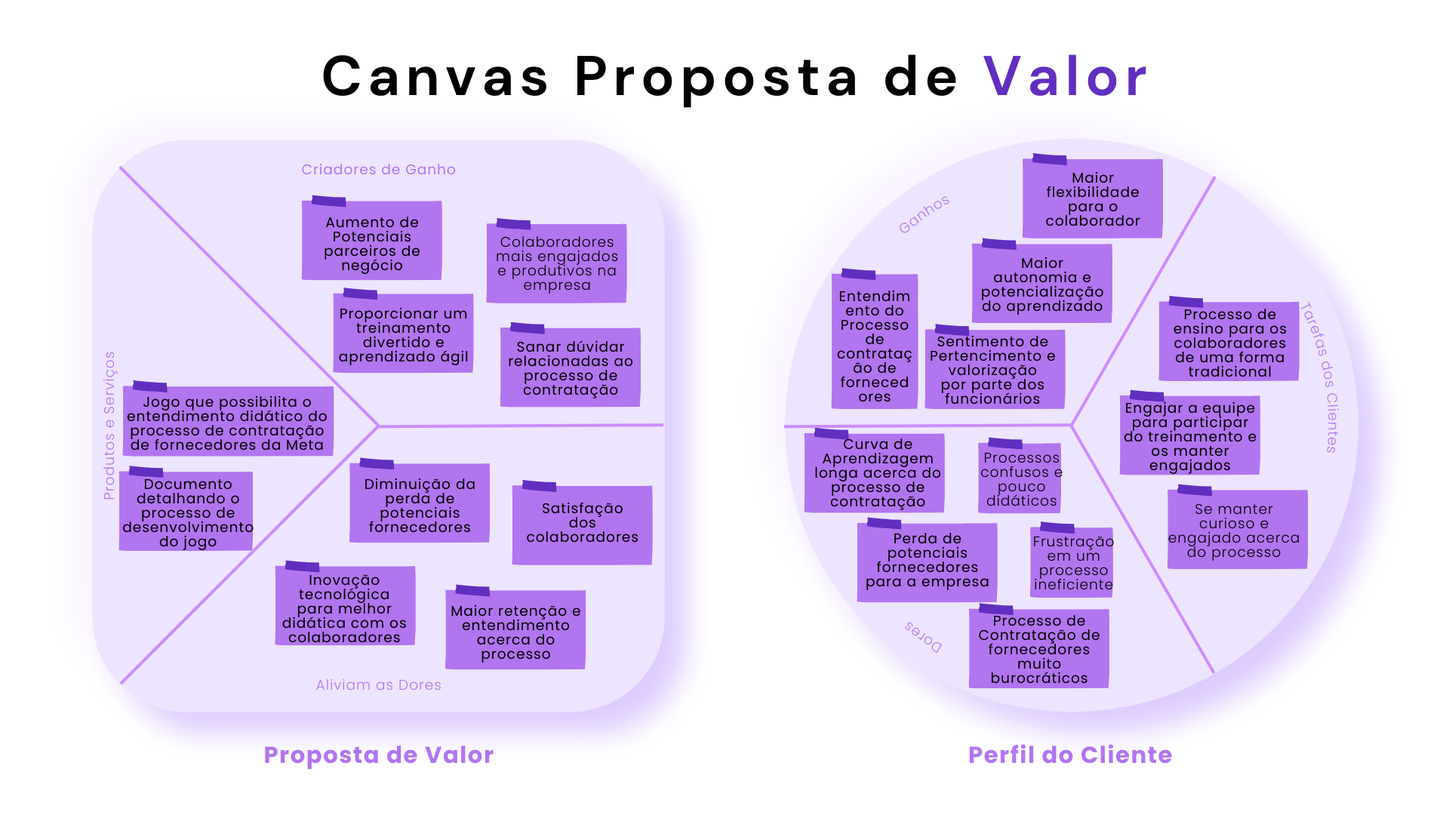
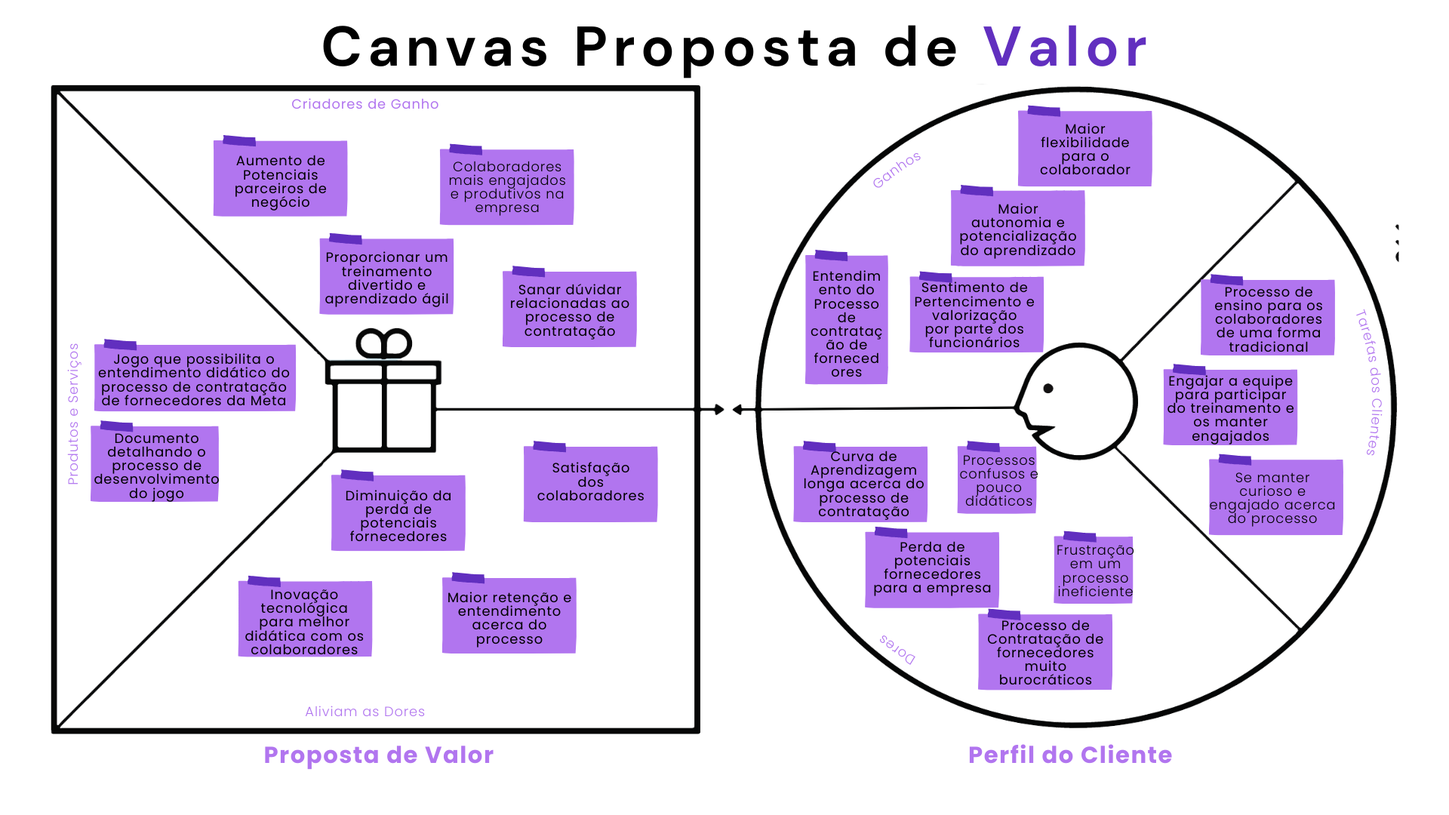
Alterações no GDD

diff --git a/document/gdd.md b/document/gdd.md
@@ -56,34 +56,52 @@ Entretanto, apesar da vasta quantidade de concorrentes, em fevereiro de 2024 as 
 
 ### 1.1.2. Análise SWOT 
 
-A análise SWOT da Meta oferece uma visão abrangente das forças, fraquezas, oportunidades e ameaças enfrentadas pela empresa. A Meta, anteriormente conhecida como Facebook, é uma gigante global que moldou a forma como interagimos e nos conectamos digitalmente. Com uma ampla gama de produtos em sua carteira e um marketing marcante, a empresa conquistou uma presença forte e influente em todo o mundo.
+A análise SWOT é uma ferramenta utilizada para identificar as forças, oportunidades, fraquezas e ameaças de uma empresa. Dessa forma, serve como uma forma de identificar oportunidades de melhoria frente à concorrência e à própria equipe, promovendo uma visão de qual o atual cenário da empresa.
+
+No contexto da Análise SWOT, há os fatores internos e externos, quanto aos fatores internos há: as forças são as ações internas que oferecem uma vantagem competitiva para a empresa, são os fatores que indicam o sucesso da empresa. Enquanto as fraquezas são o oposto, são as iniciativas internas que estão abaixo do esperado e indicam o que precisa ser feito para melhorar na empresa.
+
+Quanto aos fatores externos há as oportunidades e ameaças. As oportunidades são as iniciativas externas às empresas mas que promovem uma melhor posição competitiva. Em relação às ameaças são os fatores externos que estão foram do controle da empresa e podem impactar negativamente o cenário competitivo.
+
+Desse modo, considerando as concepções da Análise SWOT foi possível identificar as forças, fraquezas, oportunidades e ameaças que a contempla a Meta, conforme consta abaixo.
 
 <img src="../assets/MatrizSwotMeta.png">
 Figura 2: Análise SWOT da empresa Meta. Fonte: Autor Próprio (2024)
 
 **Forças:**
-- Grande variedade de produtos na carteira;</br>
-- Marketing e publicidade marcantes, além dos produtos com identidade visual facilmente reconhecível por grande parte das pessoas;</br>
-- Marcas e produtos fortemente presentes e influentes no mundo todo;</br>
-- Sistema de anúncios altamente desenvolvido, tornando-se a principal fonte de lucro da empresa.</br>
+- **Equipe qualificada e talentosa:** A empresa possui uma equipe altamente qualificada e talentosa, capaz de impulsionar a inovação e a excelência em seus produtos e serviços. </br>
+- **Marketing e publicidade atraentes:** A empresa investe em estratégias de marketing e publicidade eficazes, que capturam a atenção do público-alvo e promovem o reconhecimento e a preferência de suas marcas e produtos. </br>
+- **Marcas e produtos fortemente presentes:** A empresa possui marcas e produtos bem estabelecidos, com uma presença forte e influente no mercado, o que contribui para sua reputação e sucesso comercial. </br>
+- **Presença de tecnologia de ponta nos serviços ofertados pela empresa:** A empresa oferece serviços que incorporam tecnologia de ponta, proporcionando aos clientes experiências inovadoras e de alta qualidade.</br>
 
 **Fraquezas:**
-- Dificuldade dos colaboradores em entender o processo de contratação de fornecedores;</br>
-- Falta de investimento na expansão no mercado publicitário em razão da restrição dos anúncios da meta à produtos da empresa (propaganda exclusivamente interna); </br>
-- Constantes comprometimentos na segurança dos dados, gerando desconfiança e falta de credibilidade com os usuários, levando a perca parcial e diminuindo o ganho de usuários; </br>
-- Apesar da diversidade de produtos na carteira, grande parte da renda da Meta provém do sistema de anúncios. </br>
+- **Falta de otimização nos processos internos:** A empresa enfrenta desafios relacionados à falta de otimização em seus processos internos, o que pode afetar a eficiência operacional e a produtividade.
+
+- **Dificuldade dos colaboradores em entender processos:** Os colaboradores enfrentam dificuldades em entender alguns processos internos da empresa, o que pode impactar negativamente a execução das tarefas e projetos.
+
+- **Constantes comprometimentos na segurança dos dados:** A empresa enfrenta desafios relacionados à segurança dos dados, com ocorrências frequentes de comprometimento, o que pode resultar em perda de confiança dos clientes e danos à reputação da empresa.
+
+- **Renda proveniente do sistema de anúncios:** A empresa depende significativamente da receita gerada pelo sistema de anúncios, o que a torna vulnerável a flutuações no mercado publicitário e mudanças nas políticas de privacidade.
 
 **Oportunidades:**
-- Capacidade de influenciar grandes massas, uma vez que os seus produtos são utilizados por bilhões de pessoas em todo o mundo;</br>
-- Enorme capacidade de criar conexões com as mais diversas empresas e instituições, possibilitando o desenvolvimento de produtos com tecnologia de ponta;</br>
-- Possibilidade de conquistar a fidelidade de uma gama de usuários para os seus produtos através de investimentos em tecnologia, segurança e privacidade;</br>
-- Através do projeto, possibilitar uma carteira de fornecedores mais diversificada e alinhada com os propósitos da Meta.</br>
+- **Capacidade de influenciar grandes massas:** A empresa tem a capacidade de influenciar grandes audiências, dada sua presença significativa e impactante no mercado, o que representa uma oportunidade para expandir sua base de clientes e aumentar sua participação de mercado.
+
+- **Capacidade de criar conexões com as mais diversas empresas e instituições:** A empresa possui recursos e alcance para estabelecer conexões com uma variedade de empresas e instituições, o que pode abrir oportunidades para colaborações estratégicas e desenvolvimento de novos produtos e serviços.
+
+- **Possibilidade de explorar novos avanços tecnológicos:** A empresa está em posição de explorar e adotar novos avanços tecnológicos, o que pode impulsionar a inovação e a diferenciação de seus produtos e serviços no mercado.
+
+- **Expandir o mercado:** A empresa tem a oportunidade de expandir seu alcance e penetração em novos mercados geográficos ou segmentos de mercado, o que pode impulsionar o crescimento e a diversificação de suas operações.
 
 **Ameaças:**
-- Os produtos da Meta estão inseridos em um mercado com forte concorrência; </br>
-- O crescimento de leis de regulamentação, restringindo principalmente a captura de dados do usuário, prejudicando o funcionamento dos algoritmos de recomendação e anúncios; </br>
-- Perda de mercado devido a mudanças na preferência do consumidor e a possível perca de mercado para outros concorrentes; </br>
-- Apesar da grande variedade da carteira de produtos da Meta, a maioria da sua receita vem unicamente dos serviços de anúncios em suas redes sociais, tornando-os dependentes financeiramente desse único produto.</br>
+- **Mercado com forte concorrência:** A empresa enfrenta uma forte concorrência no mercado, o que pode dificultar a manutenção ou aumento de sua participação de mercado e pressionar os preços e margens de lucro.
+
+- **Economia global instável:** A instabilidade econômica global representa uma ameaça à empresa, pois pode afetar o poder de compra dos consumidores, as condições de crédito e investimento, e a demanda por seus produtos e serviços.
+
+- **Perda de mercado devido a mudanças do consumidor:** Mudanças nas preferências e comportamentos dos consumidores podem levar à perda de participação de mercado da empresa, caso ela não consiga acompanhar ou antecipar essas mudanças de forma eficaz.
+
+- **Riscos de segurança de dados:** A empresa enfrenta riscos significativos relacionados à segurança de dados, incluindo violações de dados, ataques cibernéticos e regulamentações cada vez mais rigorosas de proteção de dados, o que pode resultar em danos à reputação e custos significativos de conformidade e remediação.
+
+Sendo assim, é notável que a análise SWOT da Meta oferece uma visão abrangente das forças, fraquezas, oportunidades e ameaças enfrentadas pela empresa. A Meta, anteriormente conhecida como Facebook, é uma gigante global que moldou a forma como interagimos e nos conectamos digitalmente. Com uma ampla gama de produtos em sua carteira e um marketing marcante, a empresa conquistou uma presença forte e influente em todo o mundo.
+
 
 ### 1.1.3. Descrição da Solução Desenvolvida
 
@@ -93,9 +111,12 @@ Dessa forma os colaboradores da Meta terão acesso ao jogo para aprender de form
 
 Sendo assim, é esperado o aumento do engajamento dos usuários devido à abordagem inovadora, promoção de uma assimilação fácil e assertiva do processo, redução dos erros cometidos ao longo do processo e o aumento na eficiência do treinamento, de forma a contribuir para o desenvolvimento dos colaborados e a eficácia do processo de contratação de fornecedores da Meta.
 
-### 1.1.4. Proposta de Valor (sprints 1 e 4)
+### 1.1.4. Proposta de Valor
 
-Com o intuito de agregar valor na nossa solução e identificar quais as necessidades dos clientes desenvolvemos um Canvas Proposta de Valor, confome consta abaixo.
+O Canvas Proposta de Valor é uma ferramenta que tem como fundamento criar e posicionar produtos ou serviços de acordo com o que o cliente valoriza e precisa. Dessa forma, busca pensar no produto de uma forma mais estrutura e aumentar as chances de fazer o encaixe entre produto e mercado.
+
+Para atingir esse objetivo, a Proposta de Valor conta com dois blocos o Perfil do Cliente e a Proposta de Valor. Nesse primeiro, há a tarefa do cliente, as dores dos clientes e os ganhos dos clientes. Enquanto no segundo bloco estão presentes os produtos e serviços, os aliviadores de dores e os criadores de ganhos. 
+Sendo assim, xom o intuito de agregar valor na nossa solução e identificar quais as necessidades dos clientes desenvolvemos um Canvas Proposta de Valor, confome consta na imagem abaixo.
 
 <img src="../assets/CanvasPropostaValor.png">
 Figura 3. Canvas Proposta de Valor. Fonte: Autor Próprio (2024)
@@ -151,16 +172,20 @@ Figura 3. Canvas Proposta de Valor. Fonte: Autor Próprio (2024)
 2. **Jogo que possibilita o entendimento didático do processo de contratação de fornecedores da Meta:** O jogo é o produto final, projetado para oferecer aos colaboradores uma experiência de aprendizado imersiva e eficaz sobre o processo de contratação.
 
 
-### 1.1.5. Matriz de Riscos (sprints 1 e 4)
+### 1.1.5. Matriz de Riscos
 
-Visando avaliar a probabilidade de determinados eventos e consequências ocorrerem a Matriz de Risco foi criada. Além de ajudar a otimizar o trabalho e planejar planos de ações para evitar que determinados riscos ocorressem.
+A Matriz de Risco é outra ferramenta que utilizada para a avaliar a probabilidade de determinados eventos ocorrerem e quais os impactos desse evento. Para isso, é proposto a construção de uma tabela que possui o eixo vertical como probabilidade e o eixo horizontal como impacto. 
+
+Sendo assim, a probabilidade indica o quão previsível é que um risco ocorra e qual a frequência que ele pode acontecer, enquanto o impacto indica as consequências quando o risco de fato acontece. 
+
+Dessa forma, a Matriz de risco serve para avaliar o potencial de risco na produção desse projeto e ajudar no planejamento de ações para evitar que esses ocorram.
 
 <img src="../assets/MatrizRisco.png">
 Figura 4. Matriz de Riscos. Fonte: Autor Próprio (2024)
 
 De acordo com os riscos estabelecidos foi possível determinar quais ações seriam tomadas para evitar que estes ocorressem e o que seria feito caso ocorressem.
 
-\# | Plano de Ação e Resposta 
+# Risco | Plano de Ação e Resposta 
 --- | ---
 **Impasses gerados por ideias divergentes** | Entrar em consenso por meio do diálogo e reuniões
 **Ausência de conhecimento técnico** | Buscar nivelar o mais proximo possivel os assuntos a serem abordados
@@ -174,12 +199,12 @@ De acordo com os riscos estabelecidos foi possível determinar quais ações ser
 **Dificuldade em assimilar o exercício proposto** | Tirar duvidas por meio de perguntas ou de outros exercícios semelhantes com ajuda de professor ou colegas
 
 
-## 1.2. Requisitos do Projeto (sprints 1 e 2)
+## 1.2. Requisitos do Projeto
 
 Durante a reunião com o parceiro do projeto foi possível definir uma série de requisitos que contemplam desde a estética até a mecânica do jogo.
 
 **Tabela de requisitos**
-\# | **Requisito**  
+# | **Requisito**  
 --- | ---
 1 | Garantir que os usuários estejam curiosos e ativos em relação aos processos de forma a reduzir os riscos na contratação.
 2 | Garantir que o colaborador saiba o processo.
@@ -192,6 +217,223 @@ Durante a reunião com o parceiro do projeto foi possível definir uma série de
 9 | Possibilitar o compartilhamento da conclusão de fases do jogo.
 
 
-# <a name="c8"></a>Anexos
+## 1.3. Público-alvo do Projeto (sprint 2)
 
-*Ainda não disponível. Ver em Breve*
+*Posicione aqui uma descrição justificada do público-alvo do jogo, em termos demográficos e de preferências/gostos pessoais.*
+
+# <a name="c2"></a>2. Visão Geral do Jogo (sprint 2)
+
+## 2.1. Objetivos do Jogo (sprint 2)
+
+*Descreva o que o jogador deve cumprir para avançar ou concluir o jogo*
+
+## 2.2. Características do Jogo (sprint 2)
+
+### 2.2.1. Gênero do Jogo (sprint 2)
+
+*simulação, RPG, corrida, estratégia, esportes, ação, aventura etc.*  
+
+### 2.2.2. Plataforma do Jogo (sprint 2)
+
+*quanto ao dispositivo: desktop, smartphones, tablets, TV etc.*
+
+*quanto ao sistema: Web, Windows, MacOS, Android, IOS etc.*
+
+### 2.2.3. Número de jogadores (sprint 2)
+
+*1 jogador, 2 jogadores versus, 2 jogadores cooperação, multiplayer etc.*
+
+### 2.2.4. Títulos semelhantes e inspirações (sprint 2)
+
+*Liste e descreva títulos semelhantes e jogos que inspiram e são usados como referência do projeto*
+
+### 2.2.5. Tempo estimado de jogo (sprint 5)
+
+*Ex. O jogo pode ser concluído em 3 horas passando por todas as fases.*
+
+*Ex. cada partida dura até 15 minutos*
+
+# <a name="c3"></a>3. Game Design (sprints 2 e 3)
+
+## 3.1. Enredo do Jogo (sprints 2 e 3)
+
+*Descreva o enredo/história do jogo, criando contexto para os personagens (seção 3.2) e o mundo do jogo (seção 3.3). Uma boa história costuma ter um arco narrativo de contexto, conflito e resolução. Utilize etapas sequenciais para descrever esta história.* 
+
+*Caso seu jogo não possua enredo/história (ex. jogo Tetris), mencione os motivos de não existir e como o jogador pode se contextualizar com o ambiente do jogo.*
+
+## 3.2. Personagens (sprints 2 e 3)
+
+### 3.2.1. Controláveis
+
+*Descreva os personagens controláveis pelo jogador. Mencione nome, objetivos, características, habilidades, diferenciais etc. Utilize figuras (character art, sprite sheets etc.) para ilustrá-los. Caso utilize material de terceiros em licença Creative Commons, não deixe de citar os autores/fontes.* 
+
+*Caso não existam personagens (ex. jogo Tetris), mencione os motivos de não existirem e como o jogador pode interpretar tal fato.*
+
+### 3.2.2. Non-Playable Characters (NPC)
+
+*\<opcional\> Se existirem coadjuvantes ou vilões, aqui é o local para descrevê-los e ilustrá-los. Utilize listas ou tabelas para organizar esta seção. Caso utilize material de terceiros em licença Creative Commons, não deixe de citar os autores/fontes. Caso não existam NPCs, remova esta seção.*
+
+### 3.2.3. Diversidade e Representatividade dos Personagens
+
+Considerando as personagens do game, analise se estas estão alinhadas ao público-alvo do jogo (seção 1.3), e compare-as dentro da realidade da sociedade brasileira. Por fim, discorra sobre qual é o impacto esperado da escolha dessas personagens.
+
+## 3.3. Mundo do jogo (sprints 2 e 3)
+
+### 3.3.1. Locações Principais e/ou Mapas (sprints 2 e 3)
+
+*Descreva o ambiente do jogo, em que locais ele ocorre. Ilustre com imagens. Se houverem mapas, posicione-os aqui, descrevendo as áreas em acordo com o enredo. Se houverem fases, descreva-as também em acordo com o enredo (pode ser um jogo de uma fase só). Utilize listas ou tabelas para organizar esta seção. Caso utilize material de terceiros em licença Creative Commons, não deixe de citar os autores/fontes.*
+
+### 3.3.2. Navegação pelo mundo (sprints 2 e 3)
+
+*Descreva como os personagens se movem no mundo criado e as relações entre as locações – como as áreas/fases são acessadas ou desbloqueadas, o que é necessário para serem acessadas etc. Utilize listas ou tabelas para organizar esta seção.*
+
+### 3.3.3. Condições climáticas e temporais (sprints 2 e 3)
+
+*\<opcional\> Descreva diferentes condições de clima que podem afetar o mundo e as fases, se aplicável*
+
+*Caso seja relevante, descreva como o tempo passa, se ele é um fator limitante ao jogo (ex. contagem de tempo para terminar uma fase)*
+
+### 3.3.4. Concept Art (sprint 2)
+
+*Inclua imagens de Concept Art do jogo que ainda não foram demonstradas em outras seções deste documento. Para cada imagem, coloque legendas, como no exemplo abaixo.*
+
+<img src="../assets/concept1.jpg">
+
+Figura 1: detalhe da cena da partida do herói para a missão, usando sua nave
+
+### 3.3.5. Trilha sonora (sprint 3)
+
+*Descreva a trilha sonora do jogo, indicando quais músicas serão utilizadas no mundo e nas fases. Utilize listas ou tabelas para organizar esta seção. Caso utilize material de terceiros em licença Creative Commons, não deixe de citar os autores/fontes.*
+
+*Exemplo de tabela*
+\# | titulo | ocorrência | autoria
+--- | --- | --- | ---
+1 | tema de abertura | tela de início | própria
+2 | tema de combate | cena de combate com inimigos comuns | Hans Zimmer
+3 | ... 
+
+## 3.4. Inventário e Bestiário (sprint 3)
+
+### 3.4.1. Inventário
+
+*\<opcional\> Caso seu jogo utilize itens ou poderes para os personagens obterem, descreva-os aqui, indicando títulos, imagens, meios de obtenção e funções no jogo. Utilize listas ou tabelas para organizar esta seção. Caso utilize material de terceiros em licença Creative Commons, não deixe de citar os autores/fontes.* 
+
+*Exemplo de tabela*
+\# | item |  | como obter | função | efeito sonoro
+--- | --- | --- | --- | --- | ---
+1 | moeda | <img src="../assets/coin.png"> | há muitas espalhadas em todas as fases | acumula dinheiro para comprar outros itens | som de moeda
+2 | madeira | <img src="../assets/wood.png"> | há muitas espalhadas em todas as fases | acumula madeira para construir casas | som de madeiras
+3 | ... 
+
+### 3.4.2. Bestiário
+
+*\<opcional\> Caso seu jogo tenha inimigos, descreva-os aqui, indicando nomes, imagens, momentos de aparição, funções e impactos no jogo. Utilize listas ou tabelas para organizar esta seção. Caso utilize material de terceiros em licença Creative Commons, não deixe de citar os autores/fontes.* 
+
+*Exemplo de tabela*
+\# | inimigo |  | ocorrências | função | impacto | efeito sonoro
+--- | --- | --- | --- | --- | --- | ---
+1 | robô terrestre | <img src="../assets/inimigo2.PNG"> |  a partir da fase 1 | ataca o personagem vindo pelo chão em sua direção, com velocidade constante, atirando parafusos | se encostar no inimigo ou no parafuso arremessado, o personagem perde 1 ponto de vida | sons de tiros e engrenagens girando
+2 | robô voador | <img src="../assets/inimigo1.PNG"> | a partir da fase 2 | ataca o personagem vindo pelo ar, fazendo movimento em 'V' quando se aproxima | se encostar, o personagem perde 3 pontos de vida | som de hélice
+3 | ... 
+
+## 3.5. Gameflow (Diagrama de cenas) (sprint 2)
+
+*Posicione aqui seu "storyboard de programação" - o diagrama de cenas do jogo. Indique, por exemplo, como o jogo começa, quais opções o jogador tem, como ele avança nas fases, quais as condições de 'game over', como o jogo reinicia. Seu diagrama deve representar as classes, atributos e métodos usados no jogo.*
+
+## 3.6. Regras do jogo (sprint 3)
+
+*Descreva aqui as regras do seu jogo: objetivos/desafios, meios para se conseguir alcançar*
+
+*Ex. O jogador deve pilotar o carro e conseguir terminar a corrida dentro de um minuto sem bater em nenhum obstáculo.*
+
+*Ex. O jogador deve concluir a fase dentro do tempo, para obter uma estrela. Se além disso ele coletar todas as moedas, ganha mais uma estrela. E se além disso ele coletar os três medalhões espalhados, ganha mais uma estrela, totalizando três. Ao final do jogo, obtendo três estrelas em todas as fases, desbloqueia o mundo secreto.*  
+
+## 3.7. Mecânicas do jogo (sprint 3)
+
+*Descreva aqui as formas de controle e interação que o jogador tem sobre o jogo: quais os comandos disponíveis, quais combinações de comandos, e quais as ações consequentes desses comandos. Utilize listas ou tabelas para organizar esta seção.*
+
+*Ex. Em um jogo de plataforma 2D para desktop, o jogador pode usar as teclas WASD para mecânicas de andar, mirar para cima, agachar, e as teclas JKL para atacar, correr, arremesar etc.*
+
+*Ex. Em um jogo de puzzle para celular, o jogador pode tocar e arrastar sobre uma peça para movê-la sobre o tabuleiro, ou fazer um toque simples para rotacioná-la*
+
+# <a name="c4"></a>4. Desenvolvimento do Jogo
+
+## 4.1. Desenvolvimento preliminar do jogo (sprint 1)
+
+Para o desenvolvimento preliminar no jogo foram realizados testes de cenários, escolhas de design e algumas diretrizes para o jogo. Nesses testes de cenário foram produzidos dois andares de um possível prédio da Meta, na primeira imagem(figura 5) consta uma sala da recepção para visitantes e na segunda (figura 6) consta o ambiente de trabalho dos colaboradores da empresa.
+
+<img src="../assets/recepcao.png">
+Figura 5. Ambiente de Recepção. Fonte: Autor Próprio(2024).
+
+<img src="../assets/escritorio.png">
+Figura 6. Escritório dos Colaboradores da Meta. Fonte: Autor Próprio(2024).
+
+Quanto ao jogo preliminar foi utilizado um cenário mais limpo, que contém apenas o piso e as paredes do escritório, conforme consta na imagem abaixo.
+<img src="../assets/modeloArt2.png">
+Figura 7. Cenário Preliminar do Game. Fonte: Autor Próprio(2024).
+
+## 4.2. Desenvolvimento básico do jogo (sprint 2)
+
+*Descreva e ilustre aqui o desenvolvimento da versão básica do jogo, explicando brevemente o que foi entregue em termos de código e jogo. Utilize prints de tela para ilustrar. Indique as eventuais dificuldades e próximos passos.*
+
+## 4.3. Desenvolvimento intermediário do jogo (sprint 3)
+
+*Descreva e ilustre aqui o desenvolvimento da versão intermediária do jogo, explicando brevemente o que foi entregue em termos de código e jogo. Utilize prints de tela para ilustrar. Indique as eventuais dificuldades e próximos passos.*
+
+## 4.4. Desenvolvimento final do MVP (sprint 4)
+
+*Descreva e ilustre aqui o desenvolvimento da versão final do jogo, explicando brevemente o que foi entregue em termos de MVP. Utilize prints de tela para ilustrar. Indique as eventuais dificuldades e planos futuros.*
+
+## 4.5. Revisão do MVP (sprint 5)
+
+*Descreva e ilustre aqui o desenvolvimento dos refinamentos e revisões da versão final do jogo, explicando brevemente o que foi entregue em termos de MVP. Utilize prints de tela para ilustrar.*
+
+# <a name="c5"></a>5. Testes (sprint 4)
+
+## 5.1. Casos de Teste
+
+*Descreva nesta seção os casos de teste comuns que podem ser executados a qualquer momento para testar o funcionamento e integração das partes do jogo. Utilize tabelas para facilitar a organização.*
+
+*Exemplo de tabela*
+\# | pré-condição | descrição do teste | pós-condição 
+--- | --- | --- | --- 
+1 | posicionar o jogo na tela de abertura | iniciar o jogo desde seu início | o jogo deve iniciar da fase 1
+2 | posicionar o personagem em local seguro de inimigos | aguardar o tempo passar até o final da contagem | o personagem deve perder uma vida e reiniciar a fase
+3 | ...
+
+## 5.2. Testes de jogabilidade (playtests) (sprint 4)
+
+### 5.2.1 Registros de testes
+
+*Descreva nesta seção as sessões de teste/entrevista com diferentes jogadores. Registre cada teste conforme o template a seguir.*
+
+Nome | João Jonas (use nomes fictícios)
+--- | ---
+Já possuía experiência prévia com games? | sim, é um jogador casual
+Conseguiu iniciar o jogo? | sim
+Entendeu as regras e mecânicas do jogo? | entendeu as regras, mas sobre as mecânicas, apenas as essenciais, não explorou os comandos complexos
+Conseguiu progredir no jogo? | sim, sem dificuldades  
+Apresentou dificuldades? | Não, conseguiu jogar com facilidade e afirmou ser fácil
+Que nota deu ao jogo? | 9.0
+O que gostou no jogo? | Gostou  de como o jogo vai ficando mais difícil ao longo do tempo sem deixar de ser divertido
+O que poderia melhorar no jogo? | A responsividade do personagem aos controles, disse que havia um pouco de atraso desde o momento do comando até a resposta do personagem
+
+### 5.2.2 Melhorias
+
+*Descreva nesta seção um plano de melhorias sobre o jogo, com base nos resultados dos testes de jogabilidade*
+
+# <a name="c6"></a>6. Conclusões e trabalhos futuros (sprint 5)
+
+*Escreva de que formas a solução do jogo atingiu os objetivos descritos na seção 1 deste documento. Indique pontos fortes e pontos a melhorar de maneira geral.*
+
+*Relacione os pontos de melhorias evidenciados nos testes com plano de ações para serem implementadas no jogo. O grupo não precisa implementá-las, pode deixar registrado aqui o plano para futuros desenvolvimentos.*
+
+*Relacione também quaisquer ideias que o grupo tenha para melhorias futuras*
+
+# <a name="c7"></a>7. Referências (sprint 5)
+
+_Incluir as principais referências de seu projeto, para que seu parceiro possa consultar caso ele se interessar em aprofundar. Um exemplo de referência de livro e de site:_<br>
+
+LUCK, Heloisa. Liderança em gestão escolar. 4. ed. Petrópolis: Vozes, 2010. <br>
+SOBRENOME, Nome. Título do livro: subtítulo do livro. Edição. Cidade de publicação: Nome da editora, Ano de publicação. <br>
+
